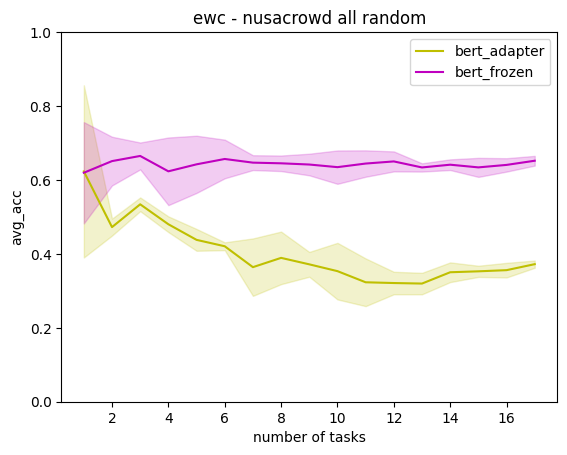
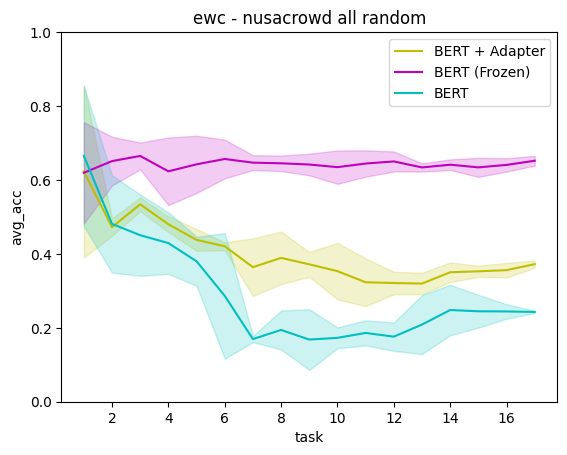
update viz

Changed region(s): [[0.1499, 0.2154, 0.9594, 0.8308], [0.6896, 0.0923, 0.9594, 0.2154], [0.4497, 0.9538, 0.6596, 0.9846]]

diff --git a/src/utils.py b/src/utils.py
@@ -499,6 +499,25 @@ tasks_id_const = {
 './dat/nusacrowd/nusax_senti_sun': 16
 }
 
+transform_setting = {
+    "bert": "BERT",
+    "bert_frozen": "BERT (Frozen)",
+    "bert_adapter": "BERT + Adapter",
+    
+    "a-gem": "A-GEM",
+    "ewc": "EWC",
+    "hat": "HAT",
+    "kan": "KAN",
+    "one": "MONO",
+    "mtl": "MULTI",
+    "ncl": "VANILLA",
+    "ctr": "CTR",
+    "b-cl": "B-CL"
+}
+
+def transform_list(list):
+    return [transform_setting[elmt] for elmt in list]
+
 def get_average(matrix):
     mat = np.array(matrix)
     n_tasks = len(mat)
@@ -723,7 +742,7 @@ def visualize(dir_name, exp_id, output, case_name, task):
       plt.legend(tasks_df['Task'], bbox_to_anchor=(1.0, 1.0))
       plt.title(f'{title.replace("_.txt", "")} - {case_name}')
       plt.xticks(range(17), [i for i in range (1, 18)])
-      plt.xlabel('number of tasks')
+      plt.xlabel('task')
       plt.ylabel(metrics)
         
       if 'lss' not in metrics:
@@ -733,17 +752,20 @@ def visualize(dir_name, exp_id, output, case_name, task):
 
 def create_viz(list_dataframe, title, legend, xlabel, ylabel, filename, list_exp_id):    
     color_const = {
-        'a-gem': ['c-', 'c'],
-        'ewc': ['m-', 'm'],
-        'hat': ['y-', 'y'],
-        'kan': ['g-', 'g'],
-        'ncl': ['r-', 'r'],
-        'one': ['b--', 'b'],
-        'mtl': ['k--', 'k'],
+        'A-GEM': ['c-', 'c'],
+        'EWC': ['m-', 'm'],
+        'HAT': ['y-', 'y'],
+        'KAN': ['g-', 'g'],
+        'CTR': ['g-', 'g'],
+        'B-CL': ['k-', 'k'],
+        'VANILLA': ['r-', 'r'],
         
-        'bert': ['c-', 'c'],
-        'bert_frozen': ['m-', 'm'],
-        'bert_adapter': ['y-', 'y']
+        'MONO': ['b--', 'b'],
+        'MULTI': ['k--', 'k'],
+        
+        'BERT': ['c-', 'c'],
+        'BERT (Frozen)': ['m-', 'm'],
+        'BERT + Adapter': ['y-', 'y']
     }
     
     
@@ -795,11 +817,14 @@ def merge_viz(dir_name, list_exp_id, list_backbone, list_baseline, case_name, me
             df[exp_id] = pd.read_csv(get_filename(dir_name, exp_id, output, metrics), sep="\s+", names=[exp_id])
         
     list_df.append(df)
+    
+  list_backbone = transform_list(list_backbone)
+  list_baseline = transform_list(list_baseline)
 
   if typ == 'multi_backbone':
-      create_viz(list_df, f'{baseline} - {case_name}', list_backbone, 'number of tasks', metrics, f"viz/{baseline}/{baseline}_{metrics}.png", list_exp_id)
+      create_viz(list_df, f'{baseline} - {case_name}', list_backbone, 'task', metrics, f"viz/{baseline}/{baseline}_{metrics}.png", list_exp_id)
   else: # type == 'multi_baseline'
-      create_viz(list_df, f'{backbone} - {case_name}', list_baseline, 'number of tasks', metrics, f"viz/{backbone}/{backbone}_{metrics}.png", list_exp_id)
+      create_viz(list_df, f'{backbone} - {case_name}', list_baseline, 'task', metrics, f"viz/{backbone}/{backbone}_{metrics}.png", list_exp_id)
 
 def run_create_viz(list_backbone, list_baseline, title, typ):
     list_exp = pd.read_csv('res/til_classification/list_experiments.csv',delimiter=',')
@@ -900,30 +925,30 @@ if __name__ == "__main__":
     #         visualize('', row['exp_id'], f"res/til_classification/nusacrowd/{row['exp_id']} - {row['backbone']}_{row['baseline']}_.txt/{row['backbone']}_{row['baseline']}_.txt", 'nusacrowd_all_random', 'nusacrowd')
     
     # create viz for backbone and baseline combination
-    # list_create_viz = [
-    #     # multi_baseline
-    #     [['bert'], ['mtl', 'one', 'ncl'], 'multi_baseline'],
-    #     [['bert_adapter'], ['mtl', 'hat', 'a-gem', 'ewc'], 'multi_baseline'],
-    #     [['bert_frozen'], ['one', 'a-gem', 'hat', 'kan', 'ncl', 'ewc'], 'multi_baseline'],
+    list_create_viz = [
+        # multi_baseline
+        [['bert'], ['mtl', 'one', 'ncl', 'ewc', 'a-gem'], 'multi_baseline'],
+        [['bert_adapter'], ['mtl', 'hat', 'a-gem', 'ewc', 'b-cl', 'ctr'], 'multi_baseline'],
+        [['bert_frozen'], ['one', 'a-gem', 'hat', 'kan', 'ncl', 'ewc'], 'multi_baseline'],
         
-    #     # multi_backbone
-    #     [['bert_adapter', 'bert_frozen'], ['a-gem'], 'multi_backbone'],
-    #     [['bert_adapter', 'bert_frozen'], ['ewc'], 'multi_backbone'],
-    #     [['bert_adapter', 'bert_frozen'], ['hat'], 'multi_backbone'],
-    #     [['bert_frozen'], ['kan'], 'multi_backbone'],
-    #     [['bert', 'bert_adapter'], ['mtl'], 'multi_backbone'],
-    #     [['bert', 'bert_frozen'], ['ncl'], 'multi_backbone'],
-    #     [['bert', 'bert_frozen'], ['one'], 'multi_backbone']
-    # ]
+        # multi_backbone
+        [['bert_adapter', 'bert_frozen', 'bert'], ['a-gem'], 'multi_backbone'],
+        [['bert_adapter', 'bert_frozen', 'bert'], ['ewc'], 'multi_backbone'],
+        [['bert_adapter', 'bert_frozen'], ['hat'], 'multi_backbone'],
+        [['bert_frozen'], ['kan'], 'multi_backbone'],
+        [['bert', 'bert_adapter'], ['mtl'], 'multi_backbone'],
+        [['bert', 'bert_frozen'], ['ncl'], 'multi_backbone'],
+        [['bert', 'bert_frozen'], ['one'], 'multi_backbone']
+    ]
     
-    # for elmt in list_create_viz:
-    #     run_create_viz(elmt[0], elmt[1], 'nusacrowd all random', elmt[2])
+    for elmt in list_create_viz:
+        run_create_viz(elmt[0], elmt[1], 'nusacrowd all random', elmt[2])
     
     # recalculate an experiment
     # calculate_metrics(81, 'bert_adapter', 'a-gem')
     
     # recalculate all experiments        
-    calculate_metrics(list_exp.iterrows())
+    # calculate_metrics(list_exp.iterrows())
     
     # get worst forgetting
     # with open('res/til_classification/result_transfer_cl.csv', 'a', newline='') as fp:
